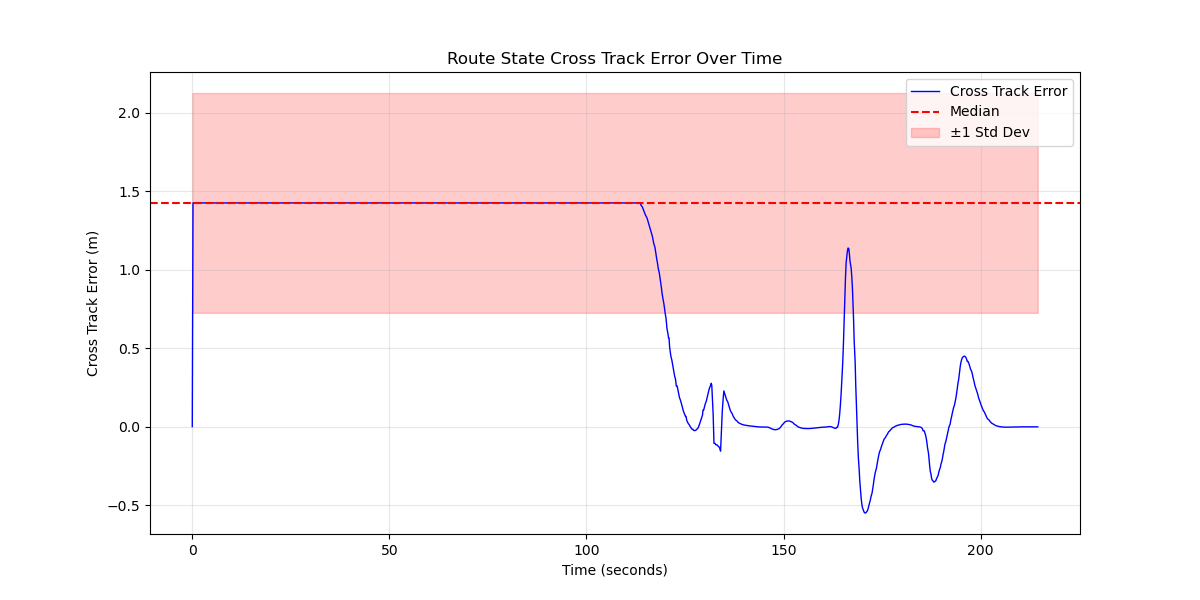
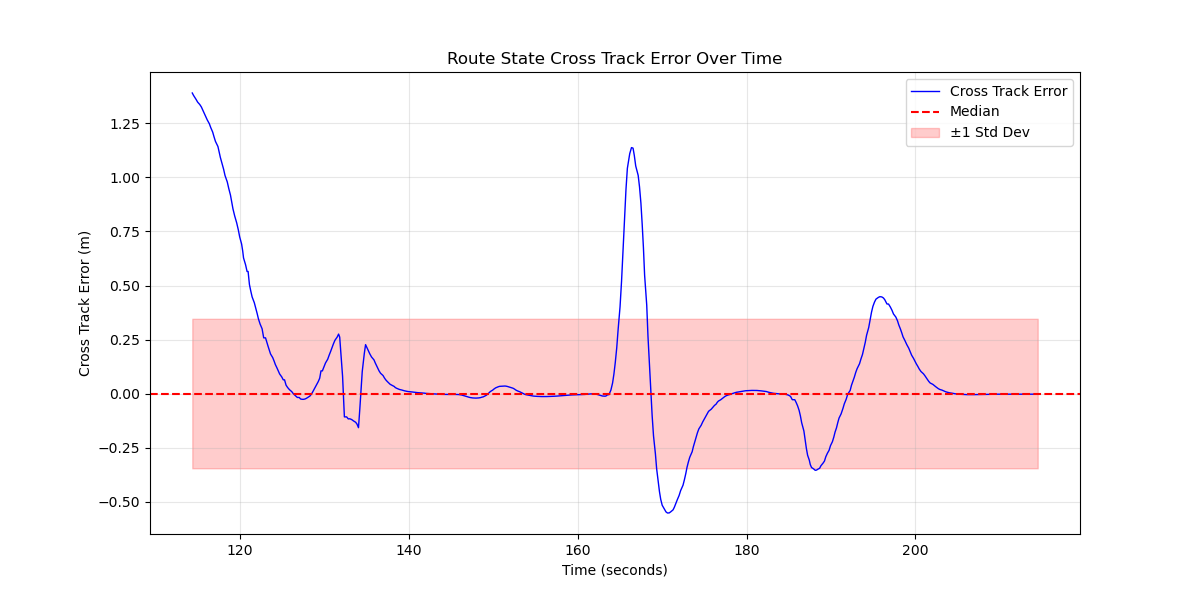
Add engage time

diff --git a/src/carma-platform/parse_ros2_bags.py b/src/carma-platform/parse_ros2_bags.py
@@ -16,12 +16,10 @@ def get_rosbag_options(path, serialization_format="cdr", storage_id="sqlite3"):
     return storage_options, converter_options
 
 
-def open_bagfile(path, topics=[]):
+def open_bagfile(path, topics=[], serialization_format="cdr", storage_id="mcap"):
     """Configure and open MCAP file reader"""
-    storage_options = rosbag2_py.StorageOptions(uri=path, storage_id="mcap")
-
-    converter_options = rosbag2_py.ConverterOptions(
-        input_serialization_format="cdr", output_serialization_format="cdr"
+    storage_options, converter_options = get_rosbag_options(
+        path, serialization_format=serialization_format, storage_id=storage_id
     )
 
     reader = rosbag2_py.SequentialReader()
@@ -39,13 +37,15 @@ def open_bagfile(path, topics=[]):
     return reader, type_map
 
 
-def extract_mcap_data(mcap_path, topics, field_extractors=None):
+def extract_mcap_data(mcap_path, topics, start_time=None, end_time=None, field_extractors=None):
     """
-    Extract data from specified topics in an MCAP file.
+    Extract data from specified topics in an MCAP file within a given time range.
 
     Args:
         mcap_path (str): Path to the MCAP file
         topics (list): List of topics to extract data from
+        start_time (float): Optional start time in seconds from beginning of recording
+        end_time (float): Optional end time in seconds from beginning of recording
         field_extractors (dict): Optional dictionary mapping topics to functions that extract
                                 desired fields from the message. If None, returns entire message.
                                 Example: {"/topic": lambda msg: msg.field_name}
@@ -107,13 +107,29 @@ def extract_mcap_data(mcap_path, topics, field_extractors=None):
 
     # Convert to numpy arrays and normalize timestamps
     result = {}
+    global_start_time = min(data[t]["timestamps"][0] for t in topics)
+    
     for topic, topic_data in data.items():
         timestamps = np.array(topic_data["timestamps"])
         values = np.array(topic_data["values"])
 
         # Convert timestamps to seconds from start
-        start_time = min(data[t]["timestamps"][0] for t in topics)
-        timestamps = (timestamps - start_time) / 1e9
+        timestamps = (timestamps - global_start_time) / 1e9
+
+        # Filter based on time range if specified
+        if start_time is not None or end_time is not None:
+            mask = np.ones_like(timestamps, dtype=bool)
+            if start_time is not None:
+                mask &= (timestamps >= start_time)
+            if end_time is not None:
+                mask &= (timestamps <= end_time)
+                
+            timestamps = timestamps[mask]
+            values = values[mask]
+
+            # Check if we have any data left after filtering
+            if len(timestamps) == 0:
+                raise ValueError(f"No data found for topic {topic} in specified time range")
 
         result[topic] = (timestamps, values)
 

diff --git a/src/carma-platform/guidance_scripts.py b/src/carma-platform/guidance_scripts.py
@@ -26,9 +26,54 @@ def print_stats(stats: dict, title: str, decimal_places: int = 4) -> None:
             print(f"{key}: {value:.{decimal_places}f}")
 
 
+def get_engage_time(mcap_path):
+    """
+    Get the (engage, disengage_time) as a tuple
+    Returns last recorded time if no disengaged.
+    NOTE: If there are multiple engage operations, it will only take the first engage time as the start_time. 
+    Args:
+        mcap_path: Path to MCAP file
+    Deps:
+        Topics: [/guidance/state]
+    """
+    STARTUP = 1
+    DRIVERS_READY = 2
+    ACTIVE = 3
+    ENGAGED = 4
+    INACTIVE = 5
+    ENTER_PARK = 6
+    SHUTDOWN = 0
+
+    not_engaged_anymore = {DRIVERS_READY, ACTIVE, INACTIVE, ENTER_PARK, SHUTDOWN}
+
+    topics = ["/guidance/state"]
+    extracted_data = extract_mcap_data(
+        mcap_path, topics, field_extractors={topics[0]: lambda msg: msg.state}
+    )
+    timestamps, states = extracted_data[topics[0]]
+
+    start_time = None
+    end_time = timestamps[-1]  # pick last available timestamp by default
+
+    for timestamp, state in zip(timestamps, states):
+        if state == ENGAGED:
+            start_time = timestamp
+            break
+
+    for timestamp, state in zip(timestamps, states):
+        if timestamp > start_time and state in not_engaged_anymore:
+            end_time = timestamp
+            break
+
+    print(f"Engage time: {start_time} and disengage time: {end_time}")
+    return (start_time, end_time)
+
+
 def run_crosstrack_analysis(
     mcap_path,
     error_threshold_to_pass_meter=2.0,
+    start_time=None,
+    end_time=None,
     save_stats_dir=None,
     save_data_dir=None,
     save_plot_dir=None,
@@ -38,6 +83,9 @@ def run_crosstrack_analysis(
 
     Args:
         mcap_path: Path to MCAP file
+        start_time: Time to start the analysis
+        end_time: Time to end the analysis
+        save_stats_dir: Directory to save analysis stats
         save_data_dir: Directory to save extracted data
         save_plot_dir: Directory to save generated plots
     Deps:
@@ -47,7 +95,11 @@ def run_crosstrack_analysis(
 
     topics = ["/guidance/route_state"]
     extracted_data = extract_mcap_data(
-        mcap_path, topics, {"/guidance/route_state": lambda msg: msg.cross_track}
+        mcap_path,
+        topics,
+        start_time=start_time,
+        end_time=end_time,
+        field_extractors={"/guidance/route_state": lambda msg: msg.cross_track},
     )
     timestamps, cross_tracks = extracted_data[topics[0]]
 
@@ -60,6 +112,8 @@ def run_crosstrack_analysis(
         "mean": np.mean(cross_tracks),
         "sample_count": len(cross_tracks),
         "rms": np.sqrt(np.mean(np.square(cross_tracks))),
+        "start_time_since_recording": start_time,
+        "end_time_since_recording": end_time,
     }
 
     # Pass or no pass

diff --git a/src/carma-platform/run_all_control_analysis.py b/src/carma-platform/run_all_control_analysis.py
@@ -1,6 +1,7 @@
 from pathlib import Path
 from typing import Dict
 from guidance_scripts import (
+    get_engage_time,
     run_crosstrack_analysis,
     #    run_turn_accuracy_analysis,
     #    run_acceleration_comfort_analysis,
@@ -18,30 +19,36 @@ def analyze_mcap_file_for_control_analysis(
     mcap_path: Path, output_dir: Path, stats_dir: Path, data_dir: Path, plots_dir: Path
 ) -> Dict:
     """Extract single MCAP file and run all control analysis on it"""
+    # 0. General steps needed for all
     try:
-        analysis_stats = {}
-        # 1. Cross_track analysis
-        try:
-            is_passed, _, _, _ = run_crosstrack_analysis(
-                mcap_path,
-                CROSS_TRACK_ERROR_THRESHOLD_METER,
-                stats_dir,
-                data_dir,
-                plots_dir,
-            )
-            analysis_stats["run_crosstrack_analysis"] = is_passed
-        except Exception as e:
-            print(
-                f"Error analyzing {mcap_path} for metric run_crosstrack_analysis: {e}"
-            )
-            analysis_stats["run_crosstrack_analysis"] = None
+        engage_time, disengage_time = get_engage_time(mcap_path)
 
-        # TODO More.
-
-        return analysis_stats
     except Exception as e:
         print(f"Error analyzing {mcap_path}: {e}")
         return None
+
+    analysis_stats = {}
+
+    # 1. Cross_track analysis
+    try:
+
+        is_passed, _, _, _ = run_crosstrack_analysis(
+            mcap_path,
+            CROSS_TRACK_ERROR_THRESHOLD_METER,
+            engage_time,
+            disengage_time,
+            stats_dir,
+            data_dir,
+            plots_dir,
+        )
+        analysis_stats["run_crosstrack_analysis"] = is_passed
+    except Exception as e:
+        print(f"Error analyzing {mcap_path} for metric run_crosstrack_analysis: {e}")
+        analysis_stats["run_crosstrack_analysis"] = None
+
+    # TODO More.
+
+    return analysis_stats
 
 
 if __name__ == "__main__":

diff --git a/src/carma-platform/docs/guidance_scripts.md b/src/carma-platform/docs/guidance_scripts.md
@@ -4,6 +4,18 @@ This file contains various analysis functions for CARMA Platform data, focusing 
 
 ## Functions
 
+### get_engage_time
+
+Get the (engage, disengage_time) as a tuple from /guidance/state. Returns last recorded time if no disengaged.
+NOTE: If there are multiple engage operations, it will only take the first engage time as the start_time. 
+
+#### Parameters:
+- `mcap_path`: Path to MCAP file
+
+#### Output:
+- Returns a tuple: (start_time, end_time)
+
+
 ### run_crosstrack_analysis
 
 Analyzes cross-track error from CARMA Platform's internal route logic using topic /guidance/route_state
